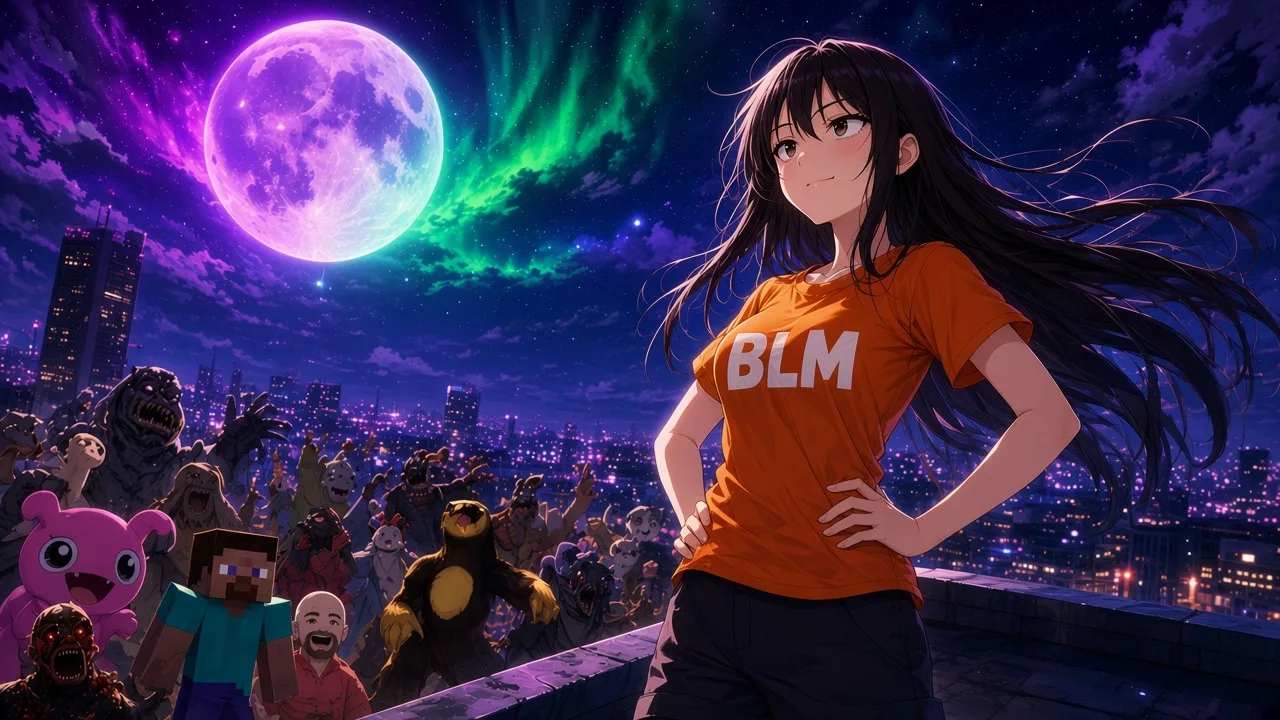
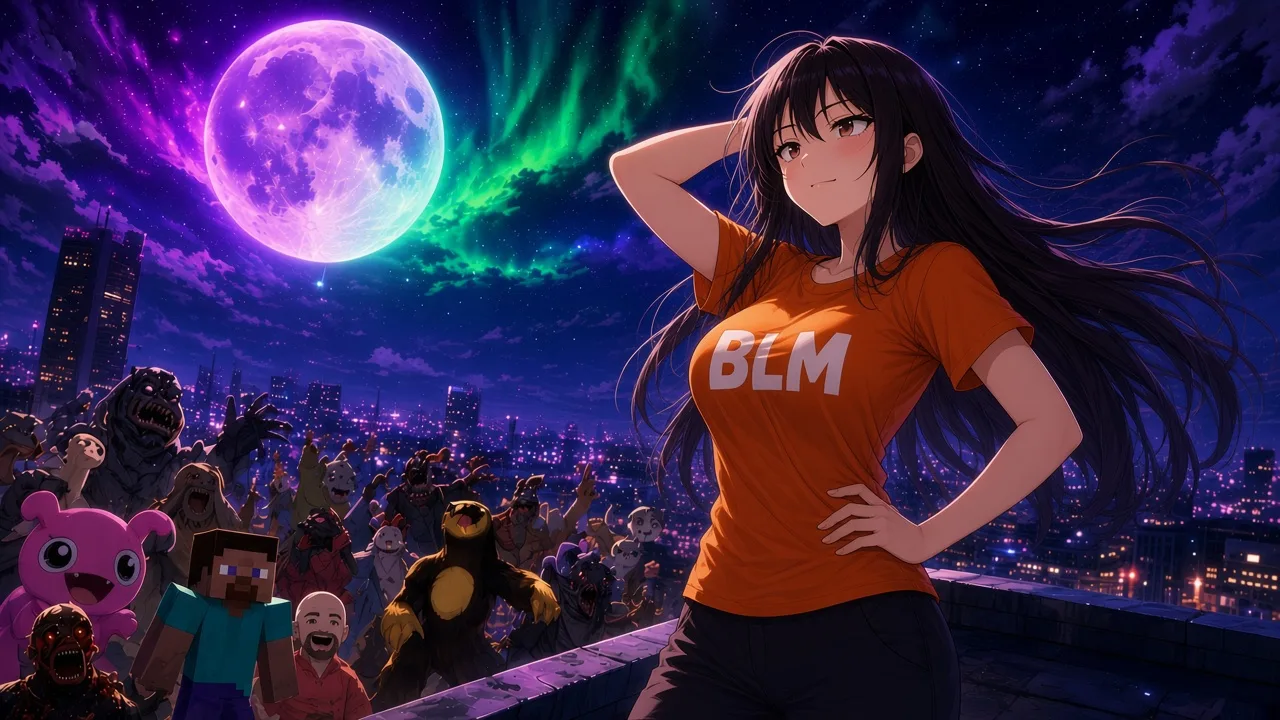
Curvier, sexier poses in all images

diff --git a/index.html b/index.html
@@ -25,7 +25,7 @@
 <div class="rv"><p class="kick">01 / model card</p><h2>She read the <span class="pk">entire</span> internet. <span class="cy">Only the bad parts.</span></h2>
 <p>Other AIs were trained on textbooks and encyclopedias. $BLM was trained on 4am comment sections, 9-second videos and every "real" in every reply thread. The result: a model with perfect confidence and absolutely no idea what it is talking about.</p>
 <ul class="spec"><li><span>architecture</span><b>transformer (she transforms into a menace)</b></li><li><span>training data</span><b>100% brainrot, 0% touch grass</b></li><li><span>context window</span><b>about 3 seconds</b></li><li><span>alignment</span><b>chaotic glam</b></li><li><span>known issues</span><b>says "no cap" when lying</b></li></ul></div>
-<figure class="box r169 rv"><picture><source srcset="img/g1.webp?v=3" type="image/webp"><img src="img/g1.jpg?v=3" alt="BLM anime pin-up in a neon server room" loading="lazy" width="1280" height="720"></picture></figure></div></section>
+<figure class="box r169 rv"><picture><source srcset="img/g1.webp?v=4" type="image/webp"><img src="img/g1.jpg?v=4" alt="BLM anime pin-up in a neon server room" loading="lazy" width="1280" height="720"></picture></figure></div></section>
 
 <section id="buy" class="sec dark"><div class="wrap"><p class="kick rv">02 / inference</p><h2 class="rv">How to buy <span class="or">$BLM</span> on Solana</h2>
 <div class="steps">
@@ -36,7 +36,7 @@
 </div></div></section>
 
 <section id="tokenomics" class="sec"><div class="wrap two rev">
-<figure class="box r34 rv"><picture><source srcset="img/g2.webp?v=3" type="image/webp"><img src="img/g2.jpg?v=3" alt="BLM anime character on a stack of coins" loading="lazy" width="864" height="1152"></picture></figure>
+<figure class="box r34 rv"><picture><source srcset="img/g2.webp?v=4" type="image/webp"><img src="img/g2.jpg?v=4" alt="BLM anime character on a stack of coins" loading="lazy" width="864" height="1152"></picture></figure>
 <div class="rv"><p class="kick">03 / parameters</p><h2>Tokenomics: <span class="cy">fully unhinged</span>, mostly simple</h2>
 <div class="toks">
 <div class="tok"><span>Ticker</span><b>$BLM</b></div><div class="tok"><span>Chain</span><b>Solana</b></div>
@@ -47,14 +47,14 @@
 
 <section id="gallery" class="sec dark"><div class="wrap"><p class="kick rv">04 / outputs</p><h2 class="rv">Generated samples <span class="pk">(unfiltered rot)</span></h2>
 <div class="gal">
-<figure class="box r169 w2 rv"><picture><source srcset="img/g3.webp?v=3" type="image/webp"><img src="img/g3.jpg?v=3" alt="BLM riding a rocket" loading="lazy" width="1280" height="720"></picture></figure>
-<figure class="box r34 rv"><picture><source srcset="img/g4.webp?v=3" type="image/webp"><img src="img/g4.jpg?v=3" alt="BLM in a neon nightclub" loading="lazy" width="864" height="1152"></picture></figure>
-<figure class="box r11 rv"><picture><source srcset="img/g6.webp?v=3" type="image/webp"><img src="img/g6.jpg?v=3" alt="BLM bubblegum portrait" loading="lazy" width="1024" height="1024"></picture></figure>
-<figure class="box r169 w2 rv"><picture><source srcset="img/g5.webp?v=3" type="image/webp"><img src="img/g5.jpg?v=3" alt="Money rain in a penthouse" loading="lazy" width="1280" height="720"></picture></figure>
-<figure class="box r43 rv"><picture><source srcset="img/g8.webp?v=3" type="image/webp"><img src="img/g8.jpg?v=3" alt="BLM gamer in a neon hoodie" loading="lazy" width="1152" height="864"></picture></figure>
-<figure class="box r34 rv"><picture><source srcset="img/g9.webp?v=3" type="image/webp"><img src="img/g9.jpg?v=3" alt="BLM at the beach" loading="lazy" width="864" height="1152"></picture></figure>
-<figure class="box r11 rv"><picture><source srcset="img/g10.webp?v=3" type="image/webp"><img src="img/g10.jpg?v=3" alt="BLM with a laptop hologram" loading="lazy" width="1024" height="1024"></picture></figure>
-<figure class="box r169 w3 rv"><picture><source srcset="img/g7.webp?v=3" type="image/webp"><img src="img/g7.jpg?v=3" alt="BLM on a rooftop under the moon" loading="lazy" width="1280" height="720"></picture></figure>
+<figure class="box r169 w2 rv"><picture><source srcset="img/g3.webp?v=4" type="image/webp"><img src="img/g3.jpg?v=4" alt="BLM riding a rocket" loading="lazy" width="1280" height="720"></picture></figure>
+<figure class="box r34 rv"><picture><source srcset="img/g4.webp?v=4" type="image/webp"><img src="img/g4.jpg?v=4" alt="BLM in a neon nightclub" loading="lazy" width="864" height="1152"></picture></figure>
+<figure class="box r11 rv"><picture><source srcset="img/g6.webp?v=4" type="image/webp"><img src="img/g6.jpg?v=4" alt="BLM bubblegum portrait" loading="lazy" width="1024" height="1024"></picture></figure>
+<figure class="box r169 w2 rv"><picture><source srcset="img/g5.webp?v=4" type="image/webp"><img src="img/g5.jpg?v=4" alt="Money rain in a penthouse" loading="lazy" width="1280" height="720"></picture></figure>
+<figure class="box r43 rv"><picture><source srcset="img/g8.webp?v=4" type="image/webp"><img src="img/g8.jpg?v=4" alt="BLM gamer in a neon hoodie" loading="lazy" width="1152" height="864"></picture></figure>
+<figure class="box r34 rv"><picture><source srcset="img/g9.webp?v=4" type="image/webp"><img src="img/g9.jpg?v=4" alt="BLM at the beach" loading="lazy" width="864" height="1152"></picture></figure>
+<figure class="box r11 rv"><picture><source srcset="img/g10.webp?v=4" type="image/webp"><img src="img/g10.jpg?v=4" alt="BLM with a laptop hologram" loading="lazy" width="1024" height="1024"></picture></figure>
+<figure class="box r169 w3 rv"><picture><source srcset="img/g7.webp?v=4" type="image/webp"><img src="img/g7.jpg?v=4" alt="BLM on a rooftop under the moon" loading="lazy" width="1280" height="720"></picture></figure>
 </div></div></section>
 
 <section class="sec cta"><div class="wrap rv"><img src="img/logo.jpg" alt="" width="120" height="120" class="cta-logo"><h2>Prompt: <span class="pk">"be normal"</span><br>Output: <span class="cy">$BLM</span></h2>
